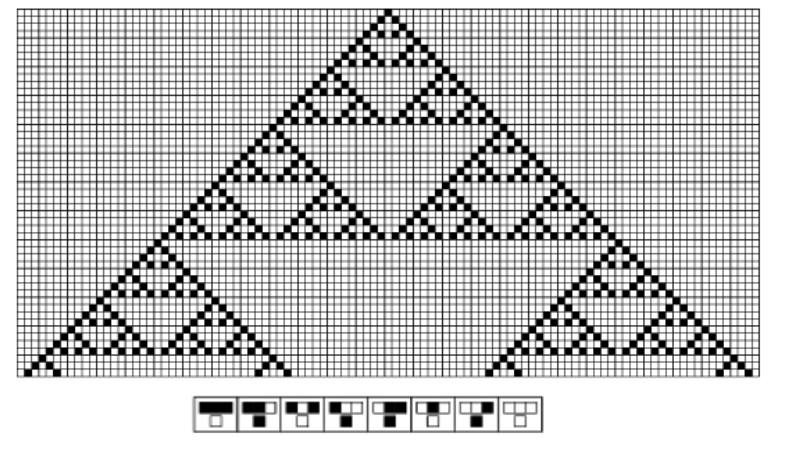
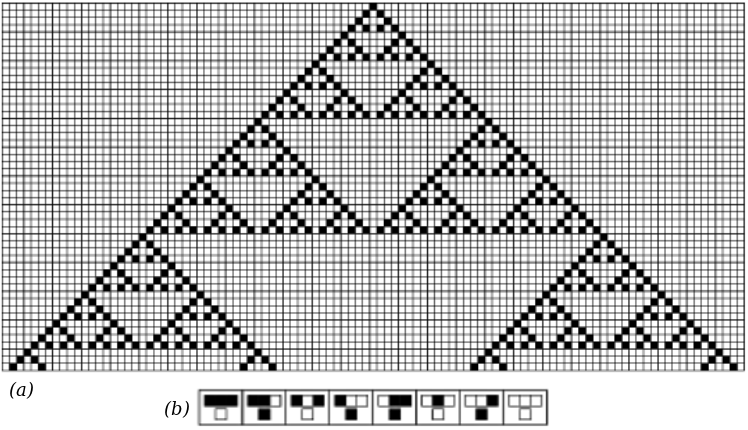
Fractals

diff --git a/Chapter3/Chapter3.tex b/Chapter3/Chapter3.tex
@@ -2,30 +2,28 @@
 
 \section{Introduction}
 
-Today, two main paradigms of algorithmic design are clearly dominant; generative design and performative design \cite{fasoulaki08}. Generative design is the essential \emph{rule-based} algorithmic form of digital architecture. It is governed by repitive patterns, equations and shape transformations.  Performative design on the other hand, is optimizational; modifing and reshaping to adapt to a certain simulated environment.
+Today, two main paradigms of algorithmic design are clearly dominant; generative design and performative design \cite{fasoulaki08}. Generative design is the essential \emph{rule-based\footnote{Consisting of a solid set of consecutive instructions that govern an action to produce a desired outcome}} algorithmic form of algorithmic architecture. It is governed by repetitive patterns, equations and shape transformations.  Performative design on the other hand, is optimisational; modifying and reshaping to adapt to a certain simulated environment.
 
 \section{Generative Design}
 
-Generative architecture can be defined as a design process involving generative systems in the form of a computar program that can be fully automated or step-by-step controlled. It would have an algorithm (rule) governing the transformations of initial shapes through variables or parameters; `generating' results, and selecting the best variant according to the given criteria. \cite{arida04}
-
-\subsection{Generative Systems}
+Generative architecture can be defined as a design process involving generative systems in the form of a computer program that can be fully automated or step-by-step controlled. It would have an algorithm (rule) governing the transformations of initial shapes through variables or parameters; `generating' results, and selecting the best variant according to the given criteria. \cite{arida04}
 
 The tools and key components of generative design are the systems which define the method of form exploration. They can be defined as scripts or sets of geometrical transformations \cite{arida04}. These systems ---as mentioned earlier--- are rule based, essentially formal or visual and are often based on systems borrowed from biology and mathematics. Some popular systems widely used today include Cellular Automata, L-Systems, Voronoi Diagrams, Fractals and Shape Grammars.
 
-\subsubsection{Cellular Automata}
+\subsection{Cellular Automata}
 
-``Cellular Automata is a computational method which can simulate the process of growth by describing a complex system by simple individuals following simple rules. The concept of simulating growth was introduced by John von Neumann (1951) and further developed by Ulam (1962) in the are of simulating multi-state machines. The concept gained great popularity when Martin Gardner (1970) John Conway's ``Life'', a game that generated two dimensional patterns''\cite{krawczyk02}. Later on, Stephen Wolfram would begin reserch on the subject in 1984, to write a book on the subject called \emph{A New Kind of Science} \cite{wolfram02}. The book would discuss the patterns created by cellular automata as simple rules capable of generating extremely complex patterns that mimic patterns of growth occuring in nature, among other things; describing his findings as a new paradigm of scientific research touching on numerous fields of science.
+``Cellular Automata is a computational method which can simulate the process of growth by describing a complex system by simple individuals following simple rules. The concept of simulating growth was introduced by John von Neumann (1951) and further developed by Ulam (1962) in the are of simulating multi-state machines. The concept gained great popularity when Martin Gardner (1970) John Conway's ``Life'', a game that generated two dimensional patterns''\cite{krawczyk02}. Later on, Stephen Wolfram would begin research on the subject in 1984, to write a book on the subject called \emph{A New Kind of Science} \cite{wolfram02}. The book would discuss the patterns created by cellular automata as simple rules capable of generating extremely complex patterns that mimic patterns of growth occurring in nature, among other things; describing his findings as a new paradigm of scientific research touching on numerous fields of science.
 
 \begin{figure}[htbp]
 \centering
 \includegraphics[width=\textwidth]{./Images/1-CellAutoEg}
-\caption[Cellular Automaton]{An example of cellular automata showing the sequence of generations and the governing rule.\cite{wolfram02}}
+\caption[Cellular Automaton]{An example of cellular automata showing (a) the sequence of generations and (b) the governing rule.\cite{wolfram02}}
 \label{CAEg}
 \end{figure}
 
 The concept of cellular automata is that an initial configuration of at least one cell occupying an empty space would evolve and procreate into a pattern using a rule that decides birth, life and death cells through the preceding related cells (Fig. \ref{CAEg}). The pattern shown is a two dimensional growth pattern used by Stephen Wolfram. Other forms of cellular automata generation include 3-dimensional ones, which are the architects main interest.
 
-The method of generation in 3-dimensional cellular automata remains basically the same as with 2-dimensional ones; with an initial configuration of blocks occuping spaces and a rule that governs the shape of each generation (Fig \ref{3dCA}).
+The method of generation in 3-dimensional cellular automata remains basically the same as with 2-dimensional ones; with an initial configuration of blocks occupying spaces and a rule that governs the shape of each generation (Fig \ref{3dCA}).
 
 \begin{figure}[htbp]
 \centering
@@ -34,11 +32,11 @@ The method of generation in 3-dimensional cellular automata remains basically th
 \label{3dCA}
 \end{figure}
 
-The utilisation of basic rules of cellular automata however does not suffice to produce architecturally sound models with appropriate internal spaces in most cases (Fig \ref{3dCAArch}). In order to produce such forms, a degree of optimization and modification is required. A fairly simple but effective solution is manipulation of cell interpretation. Examples of such manipulation are stretching cells to overlap forming adequate in ternal spaces, merging the overlapping cells and interpreting the envelope of merged cells as splines (Fig \ref{CA Optimisation}).
+The utilisation of basic rules of cellular automata however does not suffice to produce architecturally sound models with appropriate internal spaces in most cases (Fig \ref{3dCAArch}). In order to produce such forms, a degree of optimisation and modification is required. A fairly simple but effective solution is manipulation of cell interpretation. Examples of such manipulation are stretching cells to overlap forming adequate internal spaces, merging the overlapping cells and interpreting the envelope of merged cells as splines (Fig \ref{CA Optimisation}).
 
 \begin{figure}[htbp]
 \centering
-\includegraphics[width=0.5\textwidth]{./Images/3-3dCAArch}
+\includegraphics[width=0.7\textwidth]{./Images/3-3dCAArch}
 \caption[Cellular Automata Architectural Inadequacy]{An example of CA rules inadequacy for architectural forms without modification \cite{krawczyk02}}
 \label{3dCAArch}
 \end{figure}
@@ -47,6 +45,68 @@ The utilisation of basic rules of cellular automata however does not suffice to 
 \begin{figure}[htbp]
 \centering
 \includegraphics[width=0.7\textwidth]{./Images/4-3dCAArchOpt}
-\caption[Cellular Automata Architectural Optimization]{Optimisation of cell interpretation for architectural form \cite{krawczyk02}}
+\caption[Cellular Automata Architectural Optimisation]{Optimisation of cell interpretation for architectural form \cite{krawczyk02}}
 \label{CA Optimisation}
+\end{figure}
+
+Multiple interpretations of the manipulated generations (Fig \ref{CA ArchForm}) were created with structural support. The architectural forms shown appear more developed, nevertheless; it was subject to several modifications of the original cellular automata model which required user intervention at early stages of the process, which would prove CA to be a rather raw method of architectural form generation.
+
+\begin{figure}[H]
+\centering
+\includegraphics[width=\textwidth]{./Images/5-3dCASpaces}
+\caption[Architectural Interpretation of CA Generations]{Architectural Interpretation of CA Generations \cite{krawczyk02}}
+\label{CA ArchForm}
+\end{figure}
+
+\subsection{Voronoi Diagrams}
+
+``Considered as early as 1644 by Ren\'{e} Descartes but are named after the Russian Mathematician Georgy Fedoseevich Voronoi who studied and defined the general n-dimensional case in 1907''\cite{fasoulaki08}. A Voronoi Diagram is a way of decomposing a space into regions\footnote{Voronoi Diagrams are a class of patterns called Dirichlet tessellations}, this process initiate with a set of points in space; called generating points, the partitioning lines are then drawn from an equal distance from the aforementioned points creating polygons or cells (Fig. \ref{VDiag}).
+
+\begin{figure}[htbp]
+\centering
+\includegraphics[width=0.8\textwidth]{./Images/6-VoronoiDiagram}
+\caption[Voronoi Diagram]{Voronoi Diagram \cite{fujita00}}
+\label{VDiag}
+\end{figure}
+
+Voronoi Diagrams are naturally occurring patterns such as crystalline formations, bee honeycombs and animal coat patterns among other things, making it a suitable model of form generation and optimisation as well in terms of structure \cite{friedrich08} and environmental performance\label{NaturalOpt}. The main form of utilisation however is that of internal space division or partitioning (Fig. \ref{VDInternal}) and urban design and planning (Fig. \ref{VDUrban})
+
+Although the common form of utilisation of Voronoi Diagram might denote a 2-dimensional constraint, it is also used in 3-dimensional space generating surfaces points in 3D space.
+
+\begin{figure}[htbp]
+\centering
+\includegraphics[width=\textwidth]{./Images/7-UrbanVoronoi}
+\caption[Voronoi Diagram and Urban Design]{An example of Voronoi Diagram utilisation in urban design (with manual optimisation of final results) \cite{friedrich08}}
+\label{VDUrban}
+\end{figure}
+
+\begin{figure}[htbp]
+\centering
+\includegraphics[width=\textwidth]{./Images/8-StructureVoronoi}
+\caption[Voronoi Diagram Space Decomposition]{An example of Voronoi Diagram internal space decomposition \cite{friedrich08}}
+\label{VDInternal}
+\end{figure}
+
+\subsection{Fractals}
+
+"Fractal Geometry is the study of mathematical shapes that display a cascade of never-ending, self-similar, meandering\footnote{\emph{Meander}: to follow a winding or intricate course \cite{merriam03}} detail as one observes them more closely\ldots Fractal geometry is a rare example of technology that can reach into the core of design composition" \cite{bovill96}.
+
+Originated by Benoit B. Mandelbrot in 1975 \cite{fasoulaki08}, the term \emph{fractals} defines a mathematical rule to produce geometrical shapes that are self-similar\footnote{Reduced copy of the whole}. A fractal is produced by defining an initiator shape and a rule that replaces this shape with a smaller set of copies of the original shape, such as a symmetrical combination of two copies of the original shape. The process goes on in recursion and repetition with virtually no limit to the number of iterations. Examples of this process are: the Koch curve (Fig. \ref{KochCurve}), Sierpinski Gasket, Contor Sets and Julia Sets (Fig. \ref{Fractal} \subref{JuliaSets}).
+
+\begin{figure}[htbp]
+\centering
+\includegraphics[width=0.8\textwidth]{./Images/9-FractalGeom}
+\caption[The Koch Curve]{An example of fractal geometry: The Koch Curve \cite{falconer03}}
+\label{KochCurve}
+\end{figure}
+
+Fractals are a naturaly occurring phenomenon, such formations of snow flakes, clouds, fern leaves (Fig \ref{Fractal}\subref{Fern}) and coastlines. As mentioned before (\emph{see page} \pageref{NaturalOpt}); the derivation of generative systems from natural formations can be beneficial in optimisational terms of building performance.
+
+\begin{figure}[htbp]
+\centering
+	\subfloat[Fern Fractal]{{\includegraphics{Images/10-Fern}\label{Fern}}}
+	\hspace{2cm}
+	\subfloat[Julia Sets]{{\includegraphics{Images/11-JuliaSets}\label{JuliaSets}}}
+	\caption[Fractal Forms]{Fractal Forms \cite{falconer03}}
+	\label{Fractal}
 \end{figure}

diff --git a/Chapter1/Chapter1.tex b/Chapter1/Chapter1.tex
@@ -3,28 +3,26 @@
 \section{Introduction}
 
 \subsection{The Science of Thermal Design}
-Any good form of design, whether it be architectural or otherwise must have a sort of reasoning, science or engineering as a base on which it is built to be useful, the same way good art must have meaning to be tasteful. In our case we deal with architectural design, and a particular form of it; thermal design.
 
 The basis on which thermal design is built is mainly that of simple physics, and physiology. The physics is the science that describes the building, it's components and it reactions to it's external environment, sometimes also includes other elements of the equation of thermal design such as clothing or furniture. As for the physiological part, it's concern is the occupant; the human being. It describes the way our bodies feel and react to our environment, which is in this case the environment created by the building as a reaction to it's own.
 
-In this chapter we shall discuss the matter of thermal design and it's elements; the factors of occupant, building and environment. An integral part of this chapter also is dedicated to the definition of what is called the building 'envelope', it's thermal behaviour and the projection of thermal design principles on this prominent part of buildings.
+This chapter will discuss the matter of thermal design and it's elements; the factors of occupant, building and environment. An integral part of this chapter also is dedicated to the definition of what is called the building 'envelope', it's thermal behaviour and the projection of thermal design principles on this prominent part of buildings.
 
 \subsection{Sustainability Aspects of Thermal Design}
-An important question that may come to mind is how thermal design is concerned with green or sustainable architecture. The answer is actually quite simple; in some countries such as the UK, buildings have a 50\% share of the countries energy consumption, of which 60\% is used only by houses, and half of which is used in space heating alone \cite{edwards96}. In other countries with hotter climates such as Abu Dhabi, cooling energy consumption had risen from 1625 MW to 4750 MW of power from 1990 to 2007 \cite{nauman07}. Obviously, heating and cooling of spaces is a major element when it comes to energy consumption, which can be interpreted as fuel combustion as a means of electricity generation in most cases, which is a main source of CO\textsubscript{2} emissions. So if we were to state how thermal design is vital for sustainable building design, we could say that it allows for less CO\textsubscript{2}, a better management of resources and a thermally comfortable space for different activities.
+An important question that may come to mind is how thermal design is concerned with green or sustainable architecture. Consider the following: in some countries such as the UK, buildings have a 50\% share of the countries energy consumption, of which 60\% is used only by houses, and half of which is used in space heating alone \cite{edwards96}. In other countries with hotter climates such as Abu Dhabi, cooling energy consumption had risen from 1625 MW to 4750 MW of power from 1990 to 2007 \cite{nauman07}. Many other examples similar to the above would lead to the conclusion; that heating and cooling of spaces are major consumers of energy, demanding more fuel combustion as a means of electricity generation in most cases, which in turn increases CO\textsubscript{2} emissions. So if we were to state how thermal design is vital for sustainable building design, we could say that it allows for CO\textsubscript{2} emission reduction, a better management of resources and a thermally comfortable space for different activities.
 
 \subsection{The Building Envelope}
-\paragraph{What is a building envelope?}It is simply the building components which separate the indoors from outdoors. These components include all `physical' barriers such as walls, roofs, windows, doors and foundations \cite{HPO}. The main functions of a building envelope -or `enclosure'- are \cite{straube05}:
+A building envelope is the components which separate the indoor spaces from the outdoors. These components include all `physical' barriers such as walls, roofs, windows, doors and foundations \cite{HPO}. The main functions of a building envelope -or `enclosure'- are \cite{straube05}:
 \begin{enumerate}
   \item Structural support and load-bearing.
   \item Control of inward and outward flow of energy and matter.
   \item Aesthetic element of interior and exterior.
 \end{enumerate}
-Naturally, we are concerned only with the control of thermal energy, which will narrow our scope throughout this chapter.
-\section{Physics of Thermal Design}
-As mentioned earlier in this chapter, we shall embark upon the study of basic physical and physiological knowledge concerned with building thermal design, in this particular case we will observe the information as listed and described mainly by Steven Szokolay \cite{szokolay08}.
+The only function of concern from the abovementioned in this thesis will be the control of thermal energy, which will narrow our scope throughout this chapter and it's successors.
 
-\subsection{Physics of Heat}
-\subsubsection{Heat and Temperature}
+\section{Physics of Thermal Design}
+
+\subsection{Heat and Temperature}
 \paragraph{Heat,}is a form of energy while \textbf{Temperature} is it's symptom. Temperature has a measurement scale of Celsius which is based on water's freezing and boiling points at 0 and 100 degrees, while the Kelvin is used for measuring temperature intervals. \textbf{Specific Heat} provides the connection between heat and temperature. It is equal to the amount of energy; or heat, required to raise the temperature of a unit mass of a substance by 1 degree, measured in J/Kg.K. This attribute is indeed of utmost importance in terms of thermal design, as it defines how different substances respond to heat. Some materials will reach specific temperatures much faster than others and therefore in turn heat surrounding mediums faster. \textbf{Latent Heat} is the amount of heat lost or absorbed when changing form one physical state to another.
 
 \paragraph{Thermodynamics.}Thermodynamics deal with heat flow. The \textbf{First Law} of thermodynamics states that energy cannot be created nor destroyed, but converted from one form to another. The \textbf{Second Law} states that heat can flow in only one direction: from a high temperature point to a low one. The magnitude of such a flow can be measured in two ways:
@@ -33,7 +31,7 @@ As mentioned earlier in this chapter, we shall embark upon the study of basic ph
   \item \emph{Heat flux density}; the rate of flow of heat through a unit area, measured in W/m\textsuperscript{2}.
 \end{inparaenum}
 
-\subsection{Heat Flow}
+\subsubsection{Heat Flow}
 As stated in the second law of thermodynamics; heat flows from a high temperature point to a low temperature point. This flow occurs in 3 distinct forms:
 \begin{enumerate}\label{HeatExchange}
   \item \emph{Conduction}, which occurs within the same medium or through direct contact.

diff --git a/Chapter2/Chapter2.tex b/Chapter2/Chapter2.tex
@@ -62,6 +62,4 @@ When design is treated as a procedure; with parameters defining different design
 
 Algorithmic modelling can be summarised as: ``\emph{A procedure carrying instructions in a systematic order where all geometrical components that represent a design are parameterised}''\cite{hernandez06}. 
 
-However, up to this point only the fact that computers can create models of shapes and geometry has been proven. The capability of producing `\emph{design}' on the other hand is a completely different matter.
-
-This will be the subject of the following chapter, discussing \emph{rule-based} design; consisting of a solid set of consequetive instructions that govern an action to produce a desired outcome, and performative optimizational systems.
+However, up to this point only the fact that computers can create models of shapes and geometry has been proven; the capability of producing `\emph{design}' remains a completely different matter, which is the subject of the following chapter; discussing \emph{rule-based} design, and performative optimizational systems.

diff --git a/Preamble.tex b/Preamble.tex
@@ -12,6 +12,7 @@
 
 \usepackage{caption}
 \captionsetup{font=small,labelfont=bf}
+\usepackage{subfig}
 
 \usepackage{rotating}
 
@@ -48,6 +49,8 @@
 \usepackage{enumitem}
 
 \usepackage{tikz}
+
+\usepackage{lipsum}
 
 %\renewcommand{\bibname}{References}
 
